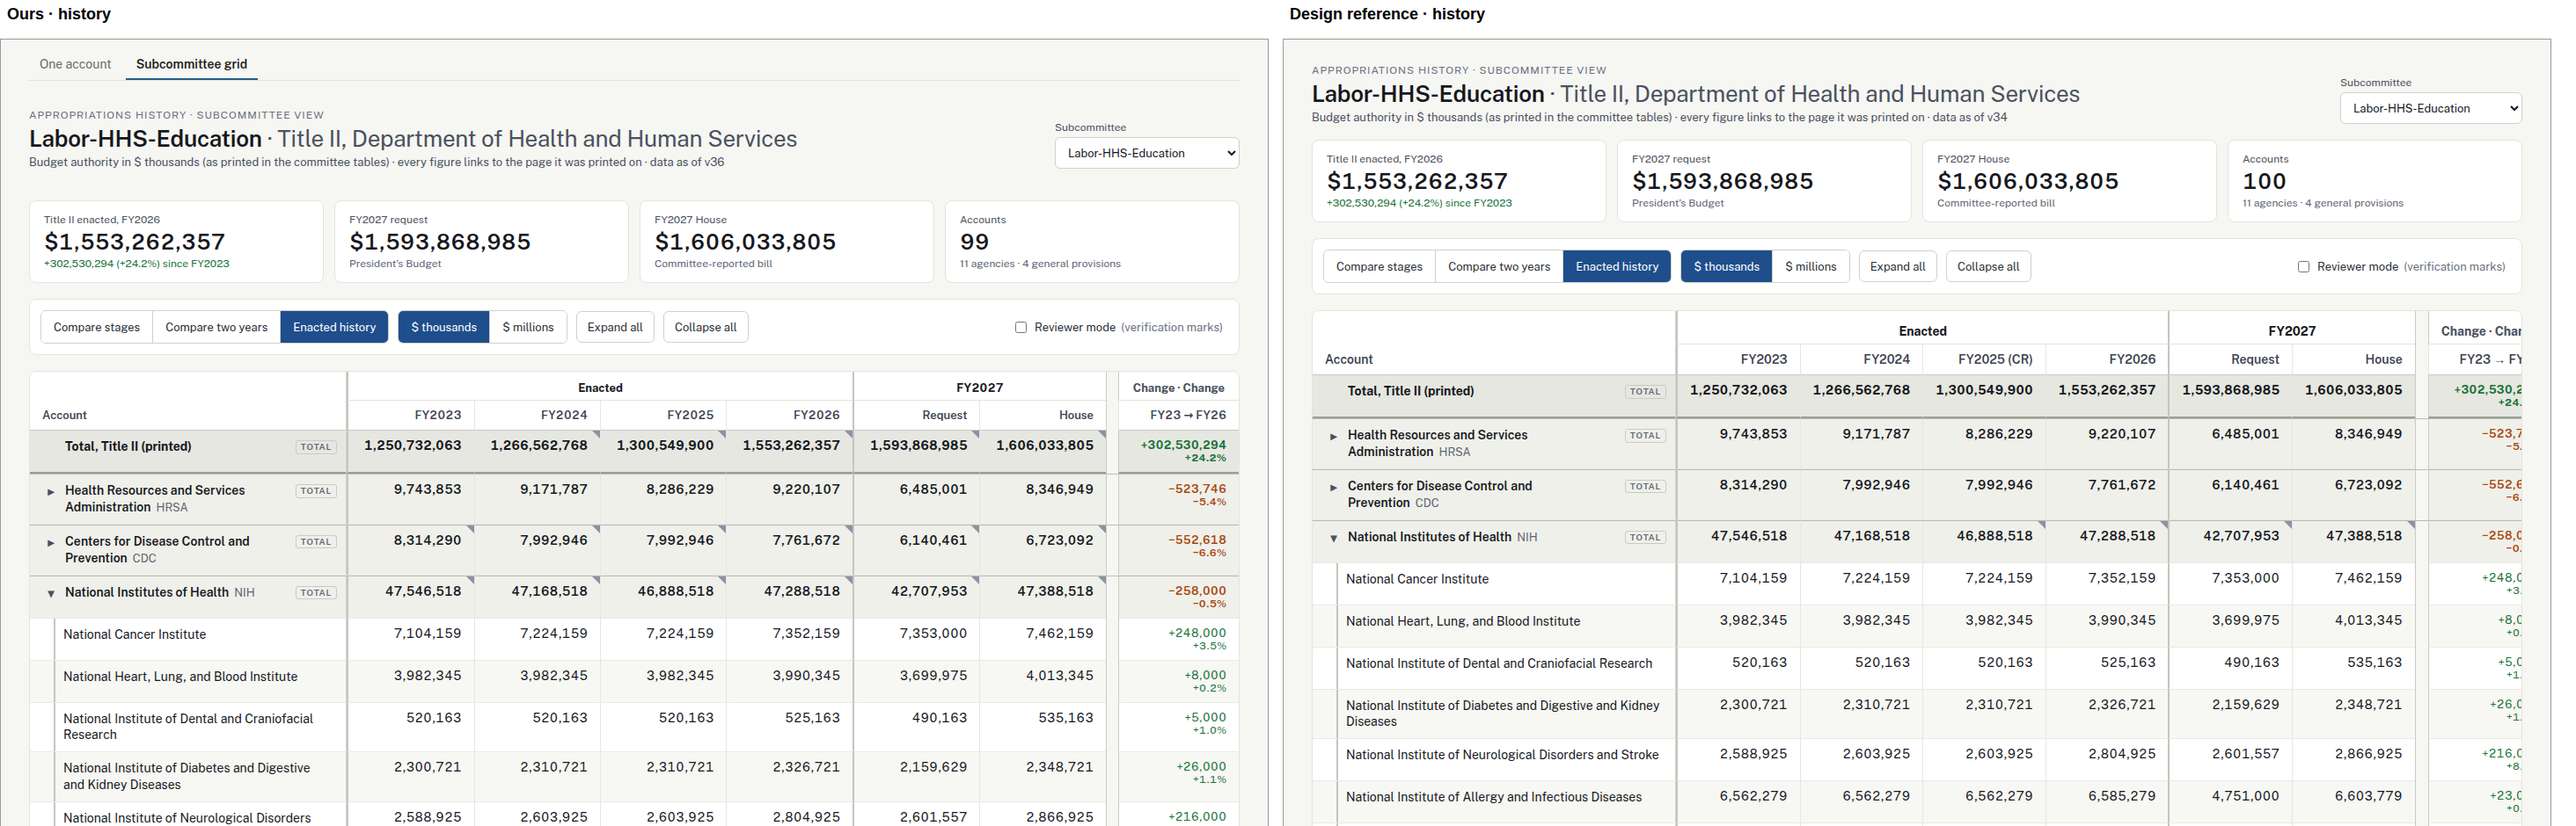
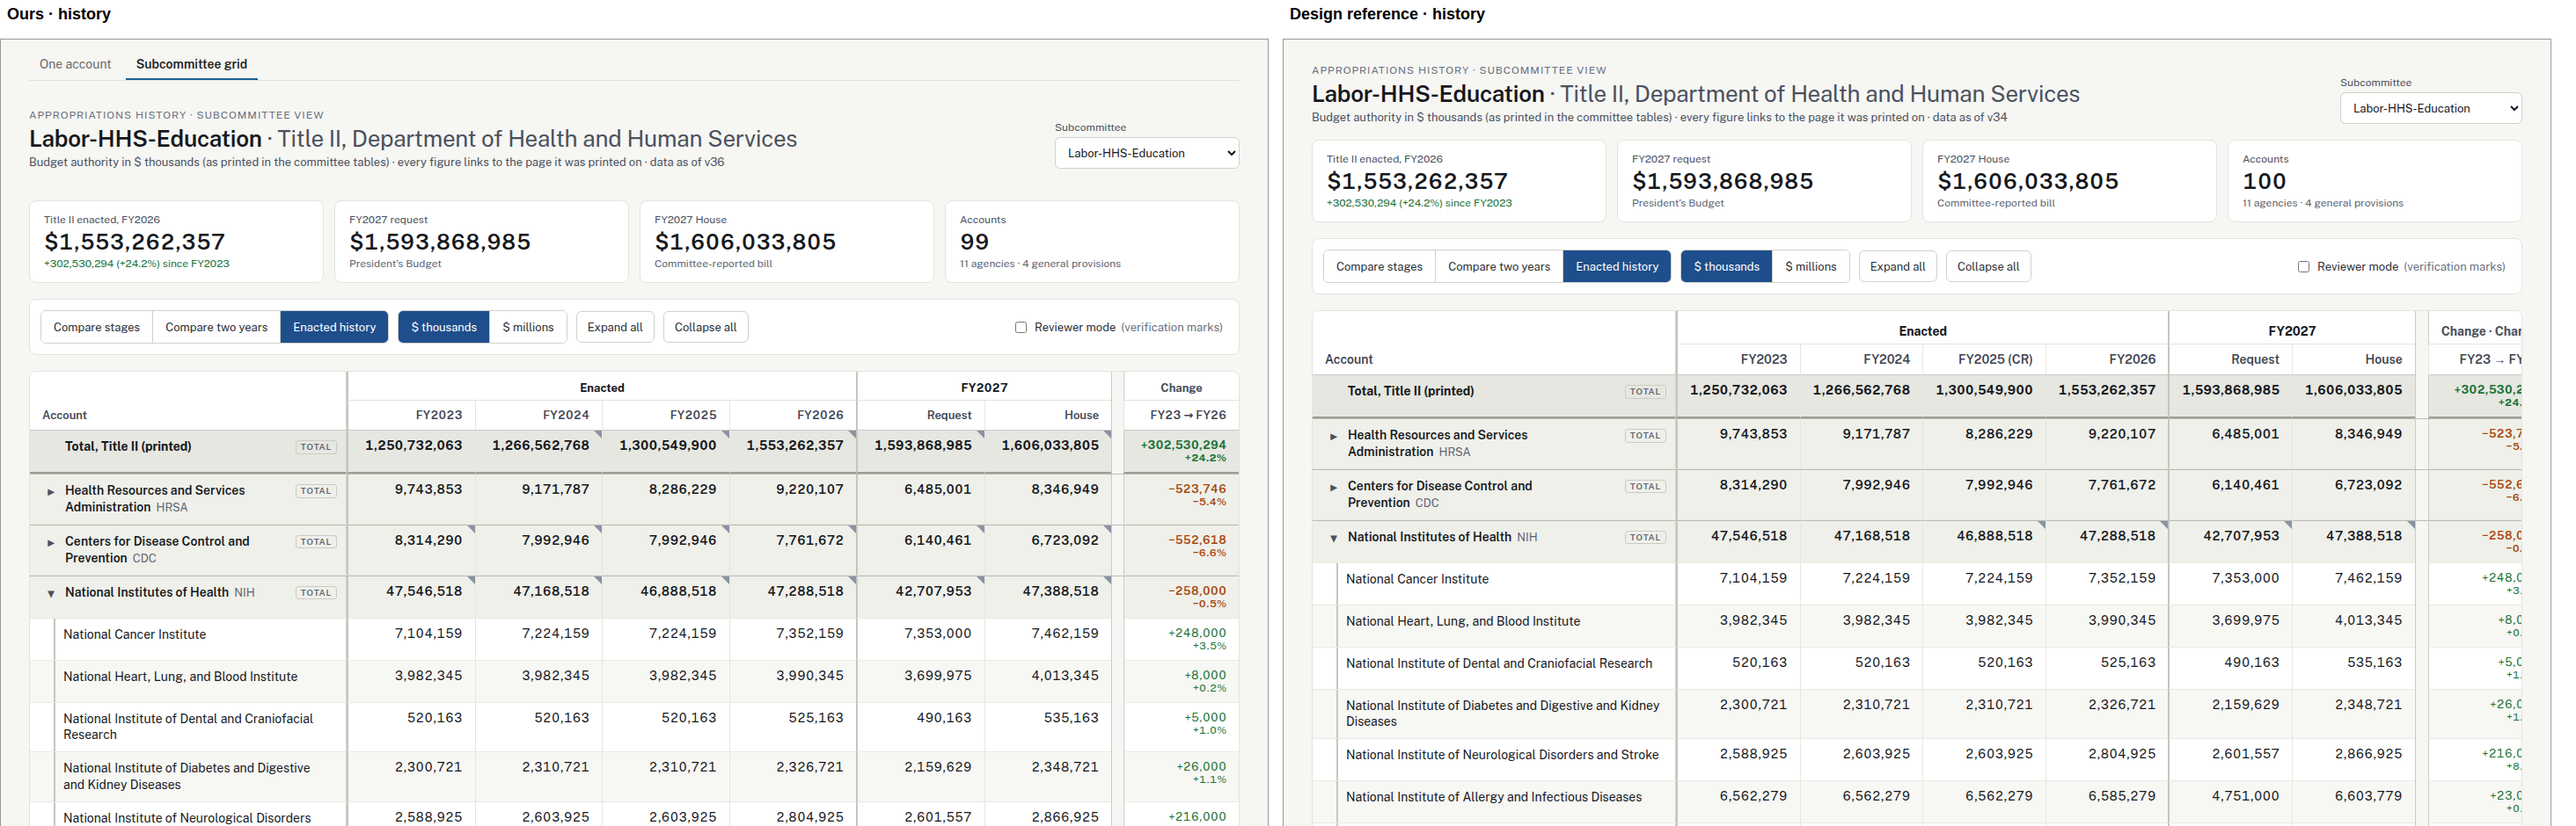
Grid: no TOTAL on a proposed agency; no "Change · Change" header
- AHA (a proposed agency) shows only "proposed agency · not enacted": TOTAL marks
  a row that sums the accounts indented beneath it, and AHA's rows beneath are
  relationship notes
- the change group header is prefixed "Change · " only when its label doesn't
  already start with "Change" (Enacted history: "Change")
- tests: TOTAL on every rollup row except a proposed agency; no header reads
  "Change · Change" in any view; screenshots retaken

Claude-Session: https://claude.ai/code/session_01DTnngPEGmJdQJwRPELZn1s

diff --git a/docs/index.html b/docs/index.html
@@ -904,7 +904,9 @@ function buildRows(grid, cols) {
       const members = ids.filter((m) => m.member_of === id);
       const incoming = a.status === "proposed" ? r.relationships.filter((x) => x.to_account_id === id) : [];
       const kids = members.length + incoming.length > 0, isOpen = kids && open.has(id);
-      const tags = (a.status === "proposed" ? [{ cls: "prop", text: "proposed agency · not enacted", title: a.notes || "" }] : []).concat([TOTAL]);
+      // TOTAL marks a row that sums the accounts indented beneath it; a proposed agency's rows beneath
+      // are relationship notes, not accounts
+      const tags = a.status === "proposed" ? [{ cls: "prop", text: "proposed agency · not enacted", title: a.notes || "" }] : [TOTAL];
       out.push(el("tr", { class: "agency", dataset: { account: id, testid: "compare-row" } },
         nameCell({ id, name: plainName(a.canonical_name), title: accountTitle(r), abbr, chev: kids, spacer: !kids, open: isOpen, tags }),
         ...cellsFor(r, cols)));
@@ -1036,7 +1038,7 @@ function renderCompare(grid) {
     const change = g.cls === "delta";
     if (change) r1.append(el("th", { class: "gap", rowspan: "2", "aria-hidden": "true" }));
     r1.append(el("th", { scope: "colgroup", colspan: String(g.cols.length), class: `grp ${g.cls || ""}${change ? "" : " gs"}`,
-                         text: change ? `Change · ${g.label}` : g.label }));
+                         text: change && !/^Change\b/.test(g.label) ? `Change · ${g.label}` : g.label }));
   }
   const r2 = el("tr", {}, ...cols.map((c) => {
     const n = note(c);

diff --git a/web/index.html b/web/index.html
@@ -903,7 +903,9 @@ function buildRows(grid, cols) {
       const members = ids.filter((m) => m.member_of === id);
       const incoming = a.status === "proposed" ? r.relationships.filter((x) => x.to_account_id === id) : [];
       const kids = members.length + incoming.length > 0, isOpen = kids && open.has(id);
-      const tags = (a.status === "proposed" ? [{ cls: "prop", text: "proposed agency · not enacted", title: a.notes || "" }] : []).concat([TOTAL]);
+      // TOTAL marks a row that sums the accounts indented beneath it; a proposed agency's rows beneath
+      // are relationship notes, not accounts
+      const tags = a.status === "proposed" ? [{ cls: "prop", text: "proposed agency · not enacted", title: a.notes || "" }] : [TOTAL];
       out.push(el("tr", { class: "agency", dataset: { account: id, testid: "compare-row" } },
         nameCell({ id, name: plainName(a.canonical_name), title: accountTitle(r), abbr, chev: kids, spacer: !kids, open: isOpen, tags }),
         ...cellsFor(r, cols)));
@@ -1035,7 +1037,7 @@ function renderCompare(grid) {
     const change = g.cls === "delta";
     if (change) r1.append(el("th", { class: "gap", rowspan: "2", "aria-hidden": "true" }));
     r1.append(el("th", { scope: "colgroup", colspan: String(g.cols.length), class: `grp ${g.cls || ""}${change ? "" : " gs"}`,
-                         text: change ? `Change · ${g.label}` : g.label }));
+                         text: change && !/^Change\b/.test(g.label) ? `Change · ${g.label}` : g.label }));
   }
   const r2 = el("tr", {}, ...cols.map((c) => {
     const n = note(c);

diff --git a/tests/test_compare.py b/tests/test_compare.py
@@ -791,7 +791,7 @@ class CompareBrowser(CompareTest):
         self.page.select_option("#basis", "0")
         self.assertEqual(heads()[1][-1], "Request")
         self.open("static", "?view=compare&sc=LHHS&grid=history")
-        self.assertEqual(heads(), [["Account", "Enacted", "FY2027", "", "Change · Change"],
+        self.assertEqual(heads(), [["Account", "Enacted", "FY2027", "", "Change"],
                                    ["FY2023", "FY2024", "FY2025", "FY2026", "Request", "House", "FY23 → FY26"]])
         self.assertTrue(self.page.is_hidden("#sub-controls"))
 
@@ -922,9 +922,15 @@ class CompareBrowser(CompareTest):
                 self.open("static", f"?view=compare&sc={sc}")
                 self.page.click("#expand-all")
                 labelled = self.page.eval_on_selector_all("[data-testid=total]", "ts => ts.map(t => t.closest('tr').dataset.account)")
-                rollups = [r["account"]["canonical_account_id"] for r in grid["rows"] if r["rollup"]] + \
+                # every rollup row except a proposed agency (its rows beneath are relationship notes, not accounts)
+                rollups = [r["account"]["canonical_account_id"] for r in grid["rows"]
+                           if r["rollup"] and r["account"]["status"] != "proposed"] + \
                           [t["total"]["account"]["canonical_account_id"] for t in grid["titles"] if t["total"]]
                 self.assertEqual(sorted(labelled), sorted(rollups))
+                for r in grid["rows"]:
+                    if r["rollup"] and r["account"]["status"] == "proposed":
+                        tags = self.page.locator(f"tr[data-account={r['account']['canonical_account_id']}] .tag")
+                        self.assertEqual([t.inner_text() for t in tags.all()], ["proposed agency · not enacted"])
                 self.assertEqual(self.page.locator("tr.child [data-testid=total], tr.group [data-testid=total]").count(), 0)
                 # pinned to the name cell's top-right, never on a line of its own
                 for t in self.page.locator("[data-testid=total]").all():
@@ -973,7 +979,9 @@ class CompareBrowser(CompareTest):
                 self.assertEqual(gap.evaluate("""e => { const s = getComputedStyle(e);
                     return [e.getBoundingClientRect().width, s.backgroundColor, s.borderLeftColor, s.borderTopWidth]; }"""),
                                  [14, "rgb(246, 246, 243)", "rgb(201, 203, 196)", "0px"])
-                self.assertTrue(self.page.locator("#compare-grid thead th.grp.delta").inner_text().startswith("Change · "))
+                head = self.page.locator("#compare-grid thead th.grp.delta").inner_text()
+                self.assertTrue(head.startswith("Change"), head)
+                self.assertNotIn("Change · Change", self.page.inner_text("#compare-grid thead"))
                 # every figure row: one gap cell, right before its first change cell, unpainted by stripes
                 bad = self.page.eval_on_selector_all("#compare-grid tbody tr[data-testid=compare-row]", """trs => trs.filter(tr => {
                     const gaps = tr.querySelectorAll(':scope > td.gap'), first = tr.querySelector(':scope > [data-testid=change-cell]');
